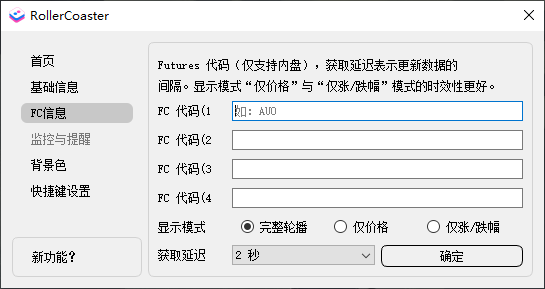
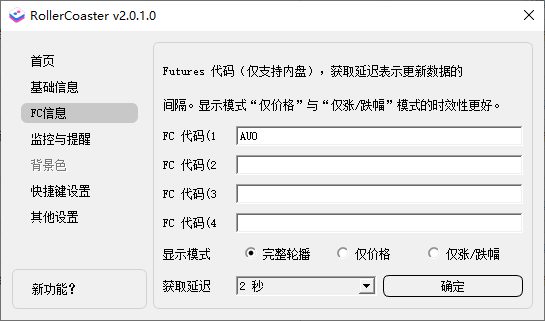
UPDATE:README.MD

diff --git a/README.md b/README.md
@@ -65,7 +65,11 @@ Through stocks and futures codes, monitor real-time price changes and place them
 
     ![04.png](./readme/04.png)
 
-7. New features?
+7. Other settings
+
+    ![08.png](./readme/08.png)
+
+8. New features?
 
    ![05.png](./readme/05.png)
 

diff --git a/README_zh.md b/README_zh.md
@@ -64,7 +64,11 @@
 
    ![04.png](./readme/04.png)
 
-7. 新功能？
+7. 其他设置
+
+   ![08.png](./readme/08.png)
+
+8. 新功能？
 
    ![05.png](./readme/05.png)
 
